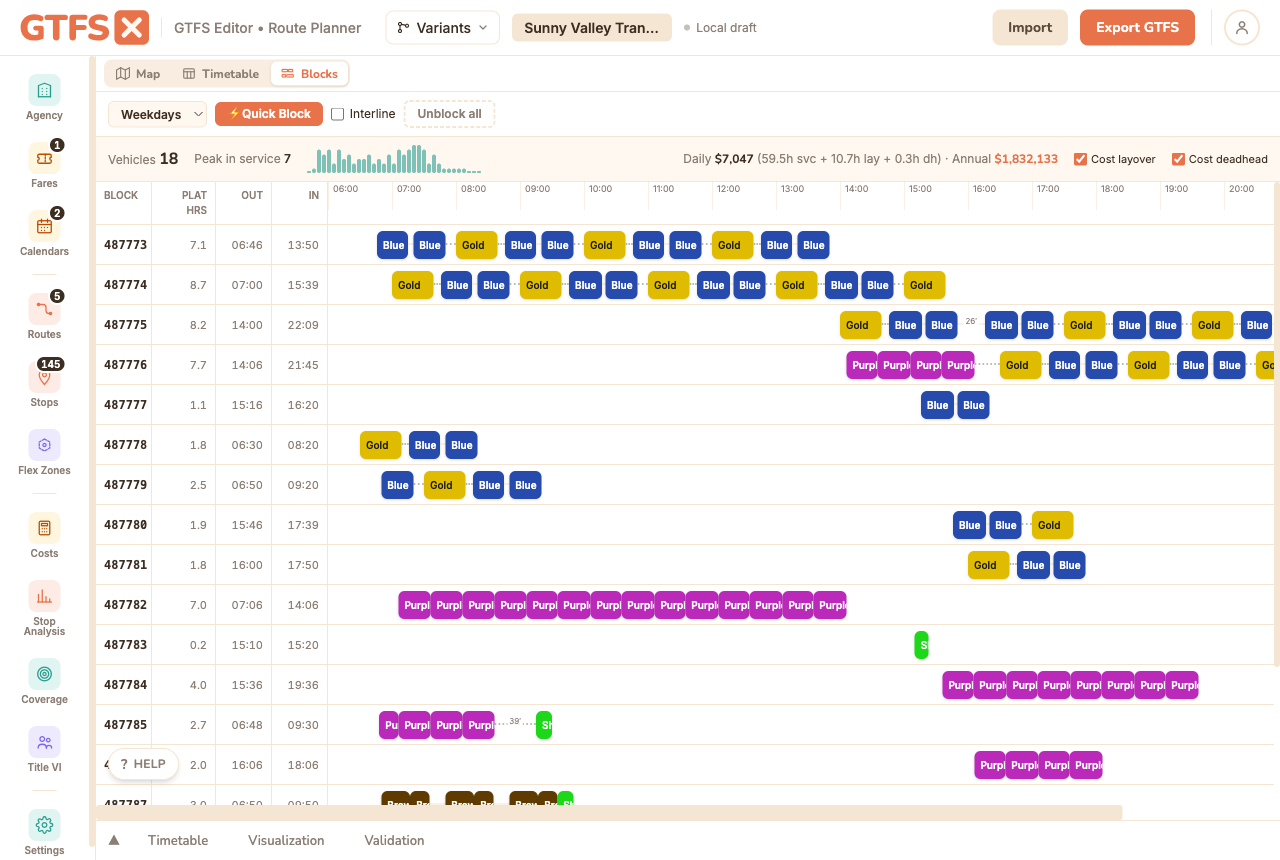
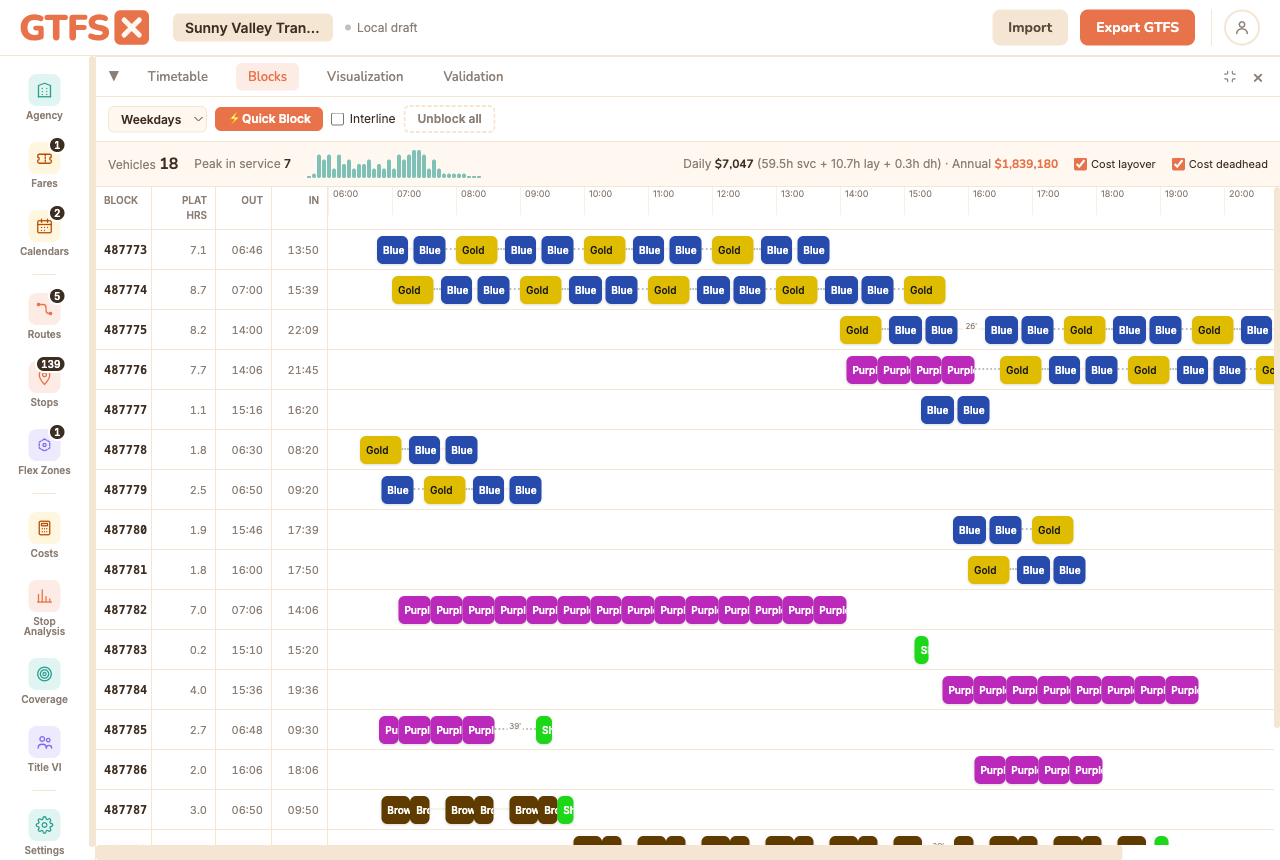
docs(service-planning): describe bottom-rail scheduling, not the center-pane swap
Scheduling moved from a center-pane "view-mode swap" (the CenterViewSwitcher,
removed in 22b4c6c) into the bottom rail. Update the prose to match: the map
stays in the center, and the Timetable / Blocks tools open as tabs in the
bottom rail (drag-resize plus a maximize-to-full-editor button).

- service-planning: rewrite "The scheduling views" section into "The scheduling
  rail"; fix the lede and meta description (no more "map's pane"); "Timetable
  view"/"Blocks view" -> "tab"; bump dateModified.
- timetables-and-trips: "Open the Timetable from the footer" -> "the bottom rail".
- Recapture service-planning-generate.png (split view: map above, Generate
  service in the rail) and service-planning-blocks.png (maximized Blocks Gantt)
  on the svt-demo feed; the old shots showed the removed center switcher.
- Regenerate docs/search-index.json.

diff --git a/public/docs/service-planning/index.html b/public/docs/service-planning/index.html
@@ -5,7 +5,7 @@
     <meta name="viewport" content="width=device-width, initial-scale=1.0" />
     <link rel="icon" type="image/svg+xml" href="/favicon.svg?v=2" />
     <title>Service planning — GTFS·X</title>
-    <meta name="description" content="Light service planning in GTFS·X: generate a timetable from a headway, fork the feed into variants and compare their cost, block trips onto vehicles, and set running times — all in the map's pane." />
+    <meta name="description" content="Light service planning in GTFS·X: generate a timetable from a headway, fork the feed into variants and compare their cost, block trips onto vehicles, and set running times in a rail beneath the map." />
     <link rel="canonical" href="https://www.gtfsx.com/docs/service-planning/" />
     <meta property="og:title" content="Service planning — GTFS·X" />
     <meta property="og:description" content="Generate timetables from headways, compare service variants by cost, block trips onto vehicles, and set running times — without an optimizer." />
@@ -32,7 +32,7 @@
     "logo": { "@type": "ImageObject", "url": "https://www.gtfsx.com/gtfsx-lockup.svg" }
   },
   "datePublished": "2026-06-18",
-  "dateModified": "2026-06-18",
+  "dateModified": "2026-06-23",
   "mainEntityOfPage": { "@type": "WebPage", "@id": "https://www.gtfsx.com/docs/service-planning/" }
 }
   </script>
@@ -55,14 +55,14 @@
     <main>
       <div class="crumbs"><a href="/docs/">Docs</a> · Analysis tools · Service planning</div>
       <h1>Service planning <span class="tier-badge agency">Agency</span></h1>
-      <p class="lede">GTFS·X is a feed editor that now does light <strong>service planning</strong> too: enter a headway and get a timetable, fork the feed into variants and compare what each one costs, chain trips onto vehicles, and set running times. The scheduling tools open in the map's pane, so you plan and edit in the same window.</p>
+      <p class="lede">GTFS·X is a feed editor that now does light <strong>service planning</strong> too: enter a headway and get a timetable, fork the feed into variants and compare what each one costs, chain trips onto vehicles, and set running times. The scheduling tools open in a rail along the bottom of the editor, so the map stays in view while you plan.</p>
       <p>These tools are built for small and rural agencies. They stay deliberately simple and fully editable: there is no optimizer and no runcutting. The generated timetable and the auto-blocking are starting points you adjust, not black-box answers.</p>
 
-      <h2 id="the-scheduling-views">The scheduling views</h2>
-      <p>A small switcher sits at the top of the map pane with three modes: <strong>Map</strong>, <strong>Timetable</strong>, and <strong>Blocks</strong>. The map stays loaded behind the scheduling views, so switching back to it is instant and keeps your camera position. Pick a route and service day inside each view.</p>
+      <h2 id="the-scheduling-rail">The scheduling rail</h2>
+      <p>The scheduling tools live in the <strong>bottom rail</strong> that runs along the bottom of the editor, beside the validation and visualization panels. The map stays in the center the whole time, so you can keep the route on screen while you schedule it. Click the <strong>Timetable</strong> tab to generate and edit trips, or the <strong>Blocks</strong> tab to chain those trips onto vehicles; pick a route and service day inside each one. Drag the rail's top edge to give it more height, or use the <strong>maximize</strong> button in the rail header to expand it to the full editor when you need room (the map collapses; click again to restore the split). Variants are forked and compared from the header, not the rail.</p>
 
       <h2 id="generate-service">Generate a timetable</h2>
-      <p>Drawing a route gives you a shape and stops, but no trips. Rather than hand-entering every departure, open the <strong>Timetable</strong> view and use <strong>Generate service</strong>. Set a window (say 06:00 to 22:00), a headway ("a bus every 30 min"), and an end-to-end run time, and GTFS·X lays out evenly-spaced trips for you. A live count ("Creates 33 trips") updates as you type.</p>
+      <p>Drawing a route gives you a shape and stops, but no trips. Rather than hand-entering every departure, open the <strong>Timetable</strong> tab and use <strong>Generate service</strong>. Set a window (say 06:00 to 22:00), a headway ("a bus every 30 min"), and an end-to-end run time, and GTFS·X lays out evenly-spaced trips for you. A live count ("Creates 33 trips") updates as you type.</p>
       <figure>
         <img src="/assets/docs/service-planning-generate.png" alt="The Generate service form in the timetable: run-from and to times, a headway with preset chips, an end-to-end run time pre-filled from the route shape, and a live 'Creates 33 trips' preview." loading="lazy" />
         <figcaption>Generate service reads like a sentence. The end-to-end run time is pre-filled from the route's shape length, so the common case is just a window plus a headway.</figcaption>
@@ -73,10 +73,10 @@
       <p>Once trips exist, <strong>Running time</strong> (in the timetable toolbar) sets the scheduled end-to-end run time for the whole pattern. Apply it and every trip on the pattern is re-timed to match, while each trip keeps its own start time, so your headways stay exactly as they were. Intermediate stops are re-interpolated. This is the quick way to push a realistic running time through a generated timetable, or to stretch the schedule for a season with heavier traffic.</p>
 
       <h2 id="vehicle-blocking">Block trips onto vehicles</h2>
-      <p>The <strong>Blocks</strong> view is a vehicle-by-time chart: one row per vehicle (block), trip bars colored by route, the gaps between them labeled as layover, and dotted connectors where a vehicle deadheads between two stops. Columns on the left show each block's platform hours and its pull-out and pull-in times.</p>
+      <p>The <strong>Blocks</strong> tab is a vehicle-by-time chart: one row per vehicle (block), trip bars colored by route, the gaps between them labeled as layover, and dotted connectors where a vehicle deadheads between two stops. Columns on the left show each block's platform hours and its pull-out and pull-in times.</p>
       <figure>
-        <img src="/assets/docs/service-planning-blocks.png" alt="The Blocks view: a vehicle-row by time-axis Gantt with trip bars colored by route, layover gaps labeled in minutes, and a cost header showing vehicles, peak-in-service, and daily and annual cost split into service, layover, and deadhead hours." loading="lazy" />
-        <figcaption>The blocking view on the Sunny Valley feed. The header tracks vehicles, peak vehicles in service, and the daily and annual cost broken into service, layover, and deadhead hours.</figcaption>
+        <img src="/assets/docs/service-planning-blocks.png" alt="The Blocks tab in the bottom rail: a vehicle-row by time-axis Gantt with trip bars colored by route, layover gaps labeled in minutes, and a cost header showing vehicles, peak-in-service, and daily and annual cost split into service, layover, and deadhead hours." loading="lazy" />
+        <figcaption>The Blocks tab on the Sunny Valley feed. The header tracks vehicles, peak vehicles in service, and the daily and annual cost broken into service, layover, and deadhead hours.</figcaption>
       </figure>
       <p><strong>Quick Block</strong> auto-chains feasible trips onto as few vehicles as possible with a transparent greedy rule: it appends each trip to the earliest-finishing vehicle that can still reach the trip's start in time and without sitting idle too long, opening a new vehicle only when none fits. Turn on <strong>Interline</strong> to allow chaining across different routes; leave it off to keep each vehicle on one route. <strong>Unblock all</strong> clears the day. Everything Quick Block produces is editable: drag a trip bar onto another vehicle (or click it and pick one) to reassign it. If two trips on the same vehicle would overlap, GTFS·X flags them in red and counts them in the toolbar, because one bus can't run two trips at once.</p>
       <p>The cost header upgrades the flat deadhead multiplier used elsewhere to real, block-derived numbers: service hours from the trips, layover hours from the in-block gaps, and deadhead hours from the distance a vehicle repositions between trips. Toggle <strong>Cost layover</strong> and <strong>Cost deadhead</strong> to see how each affects the total. Block overlaps also surface as a warning in the pre-publish validation, so an infeasible block can't slip into a published feed.</p>

diff --git a/public/docs/timetables-and-trips/index.html b/public/docs/timetables-and-trips/index.html
@@ -73,7 +73,7 @@
       </figure>
 
       <h2 id="the-grid">The trip grid</h2>
-      <p>Open the Timetable from the footer, pick a route, and the grid loads. Rows are trips; columns are the stops in <code>stop_sequence</code> order; cells are times in <code>HH:MM:SS</code> format. The editor accepts shorthand input — type <code>7:30</code> or <code>730</code> and it auto-formats to <code>07:30:00</code>.</p>
+      <p>Open the Timetable from the bottom rail, pick a route, and the grid loads. Rows are trips; columns are the stops in <code>stop_sequence</code> order; cells are times in <code>HH:MM:SS</code> format. The editor accepts shorthand input — type <code>7:30</code> or <code>730</code> and it auto-formats to <code>07:30:00</code>.</p>
       <p>The selector at the top of the grid — a <a href="#patterns">pattern dropdown</a> — switches which trips you're editing. Each pattern has its own trip list and its own stop order — the columns are that shape's stops.</p>
       <p>The <strong>Edit Stops</strong> button in the grid toolbar jumps straight to the route's <a href="/docs/stops/">Stops</a> editor, where you set which stops the pattern serves and their order; the Stops tab has the reverse jump back here — an <strong>Open timetable editor</strong> button. A stop may appear <em>more than once</em> in a pattern — handy for a loop or out-and-back whose first and last stop are the same. Add it again from the "Add existing" picker (set <em>Show stops from → All stops</em>) and it becomes a second, independent column here; on export it's written as a repeated <code>stop_id</code> at a distinct <code>stop_sequence</code>.</p>
 